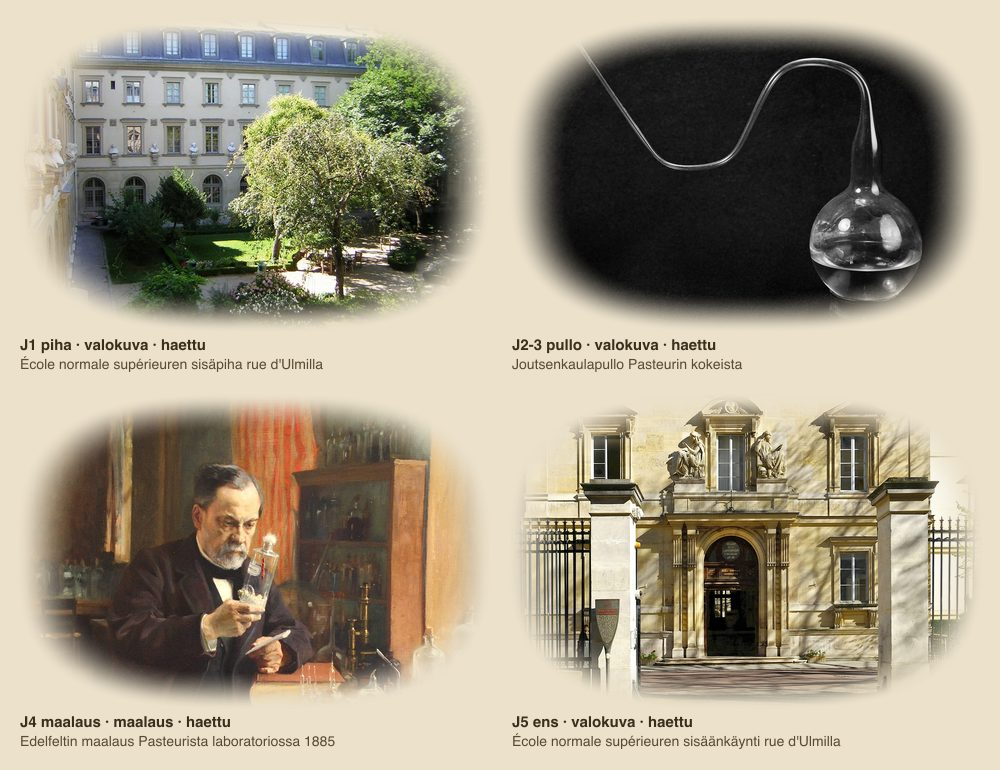
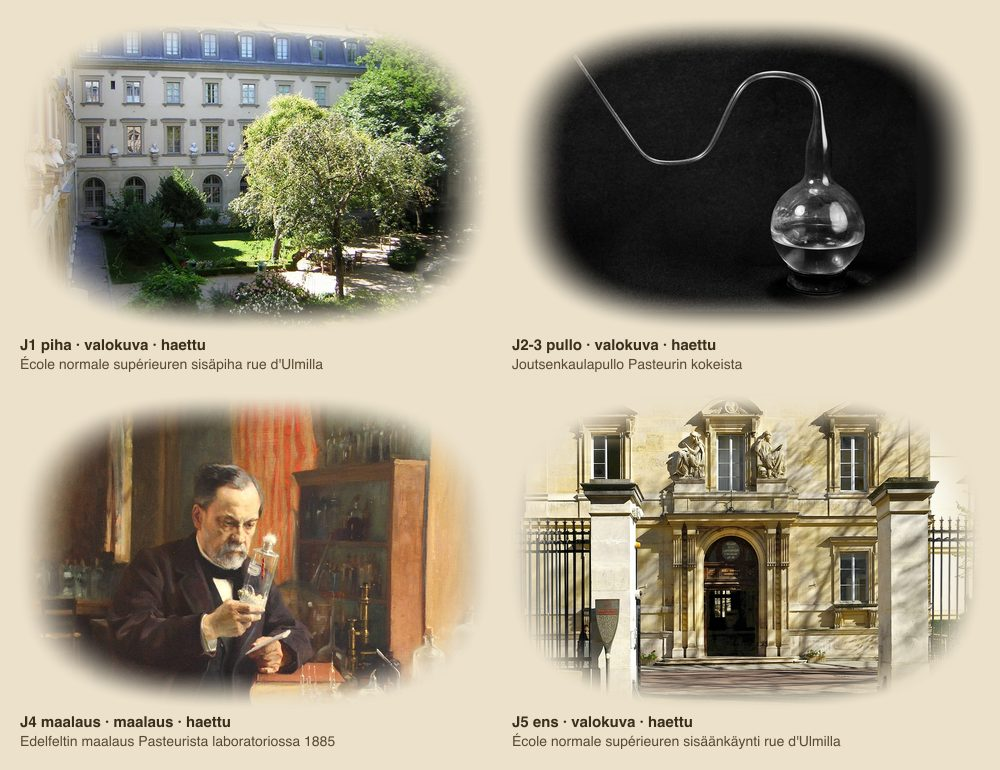
K-4 erä 1: Pasteur J2–3 pullokuva, taustaa jatkettu (KK 11.52)

Changed region(s): [[0.589, 0.0623, 0.93, 0.4052]]

diff --git a/js/packs/fokuskohteet-fra.js b/js/packs/fokuskohteet-fra.js
@@ -1319,7 +1319,7 @@ export const FOKUSKOHTEET_FRA = [
         osoite: 'https://media.matkakirja.app/kuvat/pasteur-1862-pullo.jpg',
         laji: 'valokuva',
         lyhyt: 'Joutsenkaulapullo Pasteurin kokeista',
-        lahde: 'Wellcome Collection, Wikimedia Commons (CC BY 4.0), rajattu',
+        lahde: 'Wellcome Collection, Wikimedia Commons (CC BY 4.0), rajattu, taustaa jatkettu',
         tekija: 'Tuntematon (Wellcome Collection)',
         lisenssi: 'CC BY 4.0',
         leveys: 1200,

diff --git a/docs/raportit/pariisi-nostojen-kuvat-era1-k4-20261120.md b/docs/raportit/pariisi-nostojen-kuvat-era1-k4-20261120.md
@@ -43,7 +43,7 @@ Haara `sk/k4-era1-kuvat` (pohjana sk/l5-nostotekstit-era1 + origin/main K-3), dr
 1. **Ämpäri:** 44 uutta 1200 × 800 -kuvaa pitää viedä ämpäriin (`_ampari/`, myös 2048 px:n versiot suurennoksiin) ennen kuin PR yhdistetään. Hahmotelmien (Orsay, Industrie, Les Halles) ihmekuva korvattiin 3:2-rajauksella (`kohtaamiset/ihmeet/…-3x2.jpg`), jotta noston kuvalista on 4 eikä 5; Tuileries'n ja Bastiljin `ihme.osoite` ja jakson 1 kuva ovat samat: `kohtaamiset/ihmeet/ihme-<id>-loistoaika-v2-3x2.jpg`. Kartan ihmekortin kuva muuttuu siis 3:2-versioksi.
 2. **Tilatut jaksot jäivät ilman kuvaa**, kunnes Codex-kuvat tulevat (Eiffel J4, Sainte-Chapelle J1–4 paitsi J5, Curie J1 (nykyinen havainnekuva pidetään kunnes korvaava tulee), J2–4, Louvre J2–3). Vanhat hylätyt kuvat eivät ole nostossa (kasvot lähikuvana, kehys, liian pieni); ne eivät poistu palvelimelta.
 3. **Visat:** yksikään kuvateksti ei paljasta vastausta. Lavoisierin J1 Codex-kuva poistettu (KK 11.42); Tuileries'n purkukuva hyväksytty (kertoja sanoo saman jaksossa 3). Visasääntö (KK 11.42): kuva saa näyttää sen, minkä kertoja samassa jaksossa sanoo; ei ennen sitä, eikä kuvatekstissä koskaan.
-4. **Heikot kohdat (korjauskierroksen jälkeen):** Les Hallesin purkukuva (1971; lisenssi CC BY-SA 4.0 rajapinnasta) · Les Hallesin torimummon kasvot puolilähikuvana · Lumièren J1 bulevardikuvan tekijä ja vuosi eivät ole Commonsissa · Lavoisier J4: seinässä haalea museokirjoitus · Industrien portti on julkisivun lähikuva · Orsayn Liébert-kuvan päädyt häipyvät (KK hyväksyi nämä 11.42). **Uudet mitat:** Eiffel J1–2 Neurdein: torni 9–80 % kuvan korkeudesta, huipun ylin kohta n. 3 prosenttiyksikköä häivytyksen puolella (lähteessä ei ole lisää ilmaa; muuten jalat ja sivut häivyttämättömällä alueella). Eiffel J3: lähteessä ei ilmaa lisää yläpuolella, jää ennalleen (torni 5–70 %). **Pasteur J2–3 pullokuva:** 3:2-rajaus täyttää lähteen koko leveyden (3840 px), joten --keski oikealle ei auta; mitat 1200 × 800 -kuvassa: pallo x 63–87 %, y 54–97 % (jalusta soikean häivytyksen puolella). Muuttamatta jätetty; ainoa keino olisi taustan laajennus (ei pelkkää rajausta) tai toinen kuva: KK päättää.
+4. **Heikot kohdat (korjauskierroksen jälkeen):** Les Hallesin purkukuva (1971; lisenssi CC BY-SA 4.0 rajapinnasta) · Les Hallesin torimummon kasvot puolilähikuvana · Lumièren J1 bulevardikuvan tekijä ja vuosi eivät ole Commonsissa · Lavoisier J4: seinässä haalea museokirjoitus · Industrien portti on julkisivun lähikuva · Orsayn Liébert-kuvan päädyt häipyvät (KK hyväksyi nämä 11.42). **Uudet mitat:** Eiffel J1–2 Neurdein: torni 9–80 % kuvan korkeudesta, huipun ylin kohta n. 3 prosenttiyksikköä häivytyksen puolella (lähteessä ei ole lisää ilmaa; muuten jalat ja sivut häivyttämättömällä alueella). Eiffel J3: lähteessä ei ilmaa lisää yläpuolella, jää ennalleen (torni 5–70 %). **Pasteur J2–3 pullokuva:** ratkaistu KK 11.52: taustaa jatkettu tasavärillä (sharp extend, CC BY 4.0 sallii muokkauksen), kaula ja pallo kokonaan 75 % × 75 % -alueella; lähderivissä "rajattu, taustaa jatkettu".
 5. **Jaksot ilman omaa kuvaa:** Lumièren J4–5 (jono, laatta), Pasteurin Pouchet ja jäätikkö (varakuva Bissonin Chamonix 1860, PD, ladattu), Garnierin murhayritys 1858, Berlioz'n juhla (Industrie J3), Philippe Augusten 1183 ja Forum des Halles (Les Halles J1, J5).
 6. **Työkalut:** `tools/hae-commons.mjs lataa` kirjoittaa oletuksena repon sisään ja lyhentää nimet 60 merkkiin; `node_modules` puuttuu checkoutista (sharp ajettiin Matkakirja-fablen asennuksesta).
 
@@ -339,7 +339,7 @@ Yhteensä: 0 pidetään, 3 haettu, 0 tilattu (KK 20.11. 11.42: J1-havainnekuva p
 | Jakso | Kertoja sanoo | Kuva | Laji | Lähde, tekijä, lisenssi, linkki | Tila |
 |---|---|---|---|---|---|
 | 1 | Pasteurin laboratorio oli École normale supérieuren tiloissa rue d'Ulmilla Pariisissa. Louis Pasteur tuli kouluun vuonna 1857 tieteellisten opintojen johtajaksi. | piha: École normale supérieuren sisäpiha rue d'Ulmilla (pasteur-1862-piha.jpg) | valokuva | Jan Sokol, Wikimedia Commons (CC BY-SA 3.0), rajattu; https://commons.wikimedia.org/wiki/File:ENS_dvur.JPG | haettu |
-| 2-3 | Pasteurin vastustaja Félix Pouchet uskoi, että elämä voi syntyä itsestään mätänevästä aineesta. Tiedeakatemia oli luvannut palkinnon sille, joka ratkaisee kiistan kokeilla. / Pasteur keitti lientä lasipulloissa, joiden kaula oli taivutettu joutsenen kaulan muotoon. Ilma pääsi pulloon, mutta pöly jäi mutkaan, ja liemi pysyi kirkkaana. Vuonna 1860 hän vei liemipulloja jopa Alppien jäätikölle, jossa ilmassa oli vain vähän pölyä. | pullo: Joutsenkaulapullo Pasteurin kokeista (pasteur-1862-pullo.jpg) | valokuva | Wellcome Collection, Wikimedia Commons (CC BY 4.0), rajattu; https://commons.wikimedia.org/wiki/File:Swan-necked_flask_used_by_Pasteur._Wellcome_M0012521.jpg | haettu |
+| 2-3 | Pasteurin vastustaja Félix Pouchet uskoi, että elämä voi syntyä itsestään mätänevästä aineesta. Tiedeakatemia oli luvannut palkinnon sille, joka ratkaisee kiistan kokeilla. / Pasteur keitti lientä lasipulloissa, joiden kaula oli taivutettu joutsenen kaulan muotoon. Ilma pääsi pulloon, mutta pöly jäi mutkaan, ja liemi pysyi kirkkaana. Vuonna 1860 hän vei liemipulloja jopa Alppien jäätikölle, jossa ilmassa oli vain vähän pölyä. | pullo: Joutsenkaulapullo Pasteurin kokeista (pasteur-1862-pullo.jpg) | valokuva | Wellcome Collection, Wikimedia Commons (CC BY 4.0), rajattu, taustaa jatkettu; https://commons.wikimedia.org/wiki/File:Swan-necked_flask_used_by_Pasteur._Wellcome_M0012521.jpg | haettu |
 | 4 | Pasteur voitti kiistan ja julkaisi tuloksensa 1860-luvun alussa. Hän osoitti myös, että käyminen on elävien mikrobien työtä. Viinin tauteja hän torjui kuumentamalla viiniä, ja keksinnölle haettiin patentti vuonna 1865. Menetelmää kutsutaan pastöroinniksi. | maalaus: Edelfeltin maalaus Pasteurista laboratoriossa 1885 (pasteur-1862-maalaus.jpg) | maalaus | Albert Edelfelt 1885, Wikimedia Commons (Public domain), rajattu; https://commons.wikimedia.org/wiki/File:Albert_Edelfelt_-_Louis_Pasteur_-_1885.jpg | haettu |
 | 5 | Vuonna 1888 avattiin Institut Pasteur, joka kantaa hänen nimeään. École normale supérieure toimii yhä rue d'Ulmilla Latinalaiskorttelissa. | ens: École normale supérieuren sisäänkäynti rue d'Ulmilla (pasteur-1862-ens.jpg) | valokuva | Mbzt, Wikimedia Commons (CC BY 4.0), rajattu; https://commons.wikimedia.org/wiki/File:CF6477_Paris_5e_rue_Ulm_ENS_rwk.jpg | haettu |
 
@@ -368,7 +368,7 @@ Yhteensä: 0 pidetään, 4 haettu, 0 tilattu.
 3. Jakso 4 -kuva on 1885 (jakso kertoo 1860-luvusta ja 1865).
 4. Jakson 5 teksti mainitsee Institut Pasteurin; kuva näyttää vain ENS:n.
 
-5. (KK 20.11. 11.42, SK:n mittaus) Jakso 2-3: pullokuvan lähde (3840 x 2760) on jo kauttaaltaan käytössä: 3:2-rajaus täyttää koko leveyden, joten --keski oikealle ei muuta vaakasuuntaa. Mitta 1200 x 800 -kuvassa: pallo x 63–87 %, y 54–97 %; pallon oikea laita ja jalusta jäävät soikean häivytyksen puolelle (jalusta y 97 %). Ratkaisu vaatisi taustan laajennuksen (pääasia jäisi muokkaukseksi, ei rajaukseksi) tai toisen kuvan; jätetty ennalleen KK:n päätettäväksi.
+5. (KK 20.11. 11.52, RATKAISTU) Jakso 2-3: pullokuvan lähde täytti 3:2-rajauksen koko leveyden (pallo x 63–87 %, y 54–97 %, jalusta häivytyksessä), joten taustaa jatkettiin tasavärillä (sharp extend, väri 18/255 = lähteen reunojen keskiarvo; ylös 92, alas 208, vasemmalle 100, oikealle 650 px, lähde → 4590 x 3060). Nyt kaula ja pallo kokonaan 75 % × 75 % -keskialueella; lähderivissä "rajattu, taustaa jatkettu"; lisenssi CC BY 4.0 sallii muokkauksen. Tasavärin sauma jää häivytysalueelle.
 
 ### palais-garnier: kuvatyö (K-4 erä 1)
 
